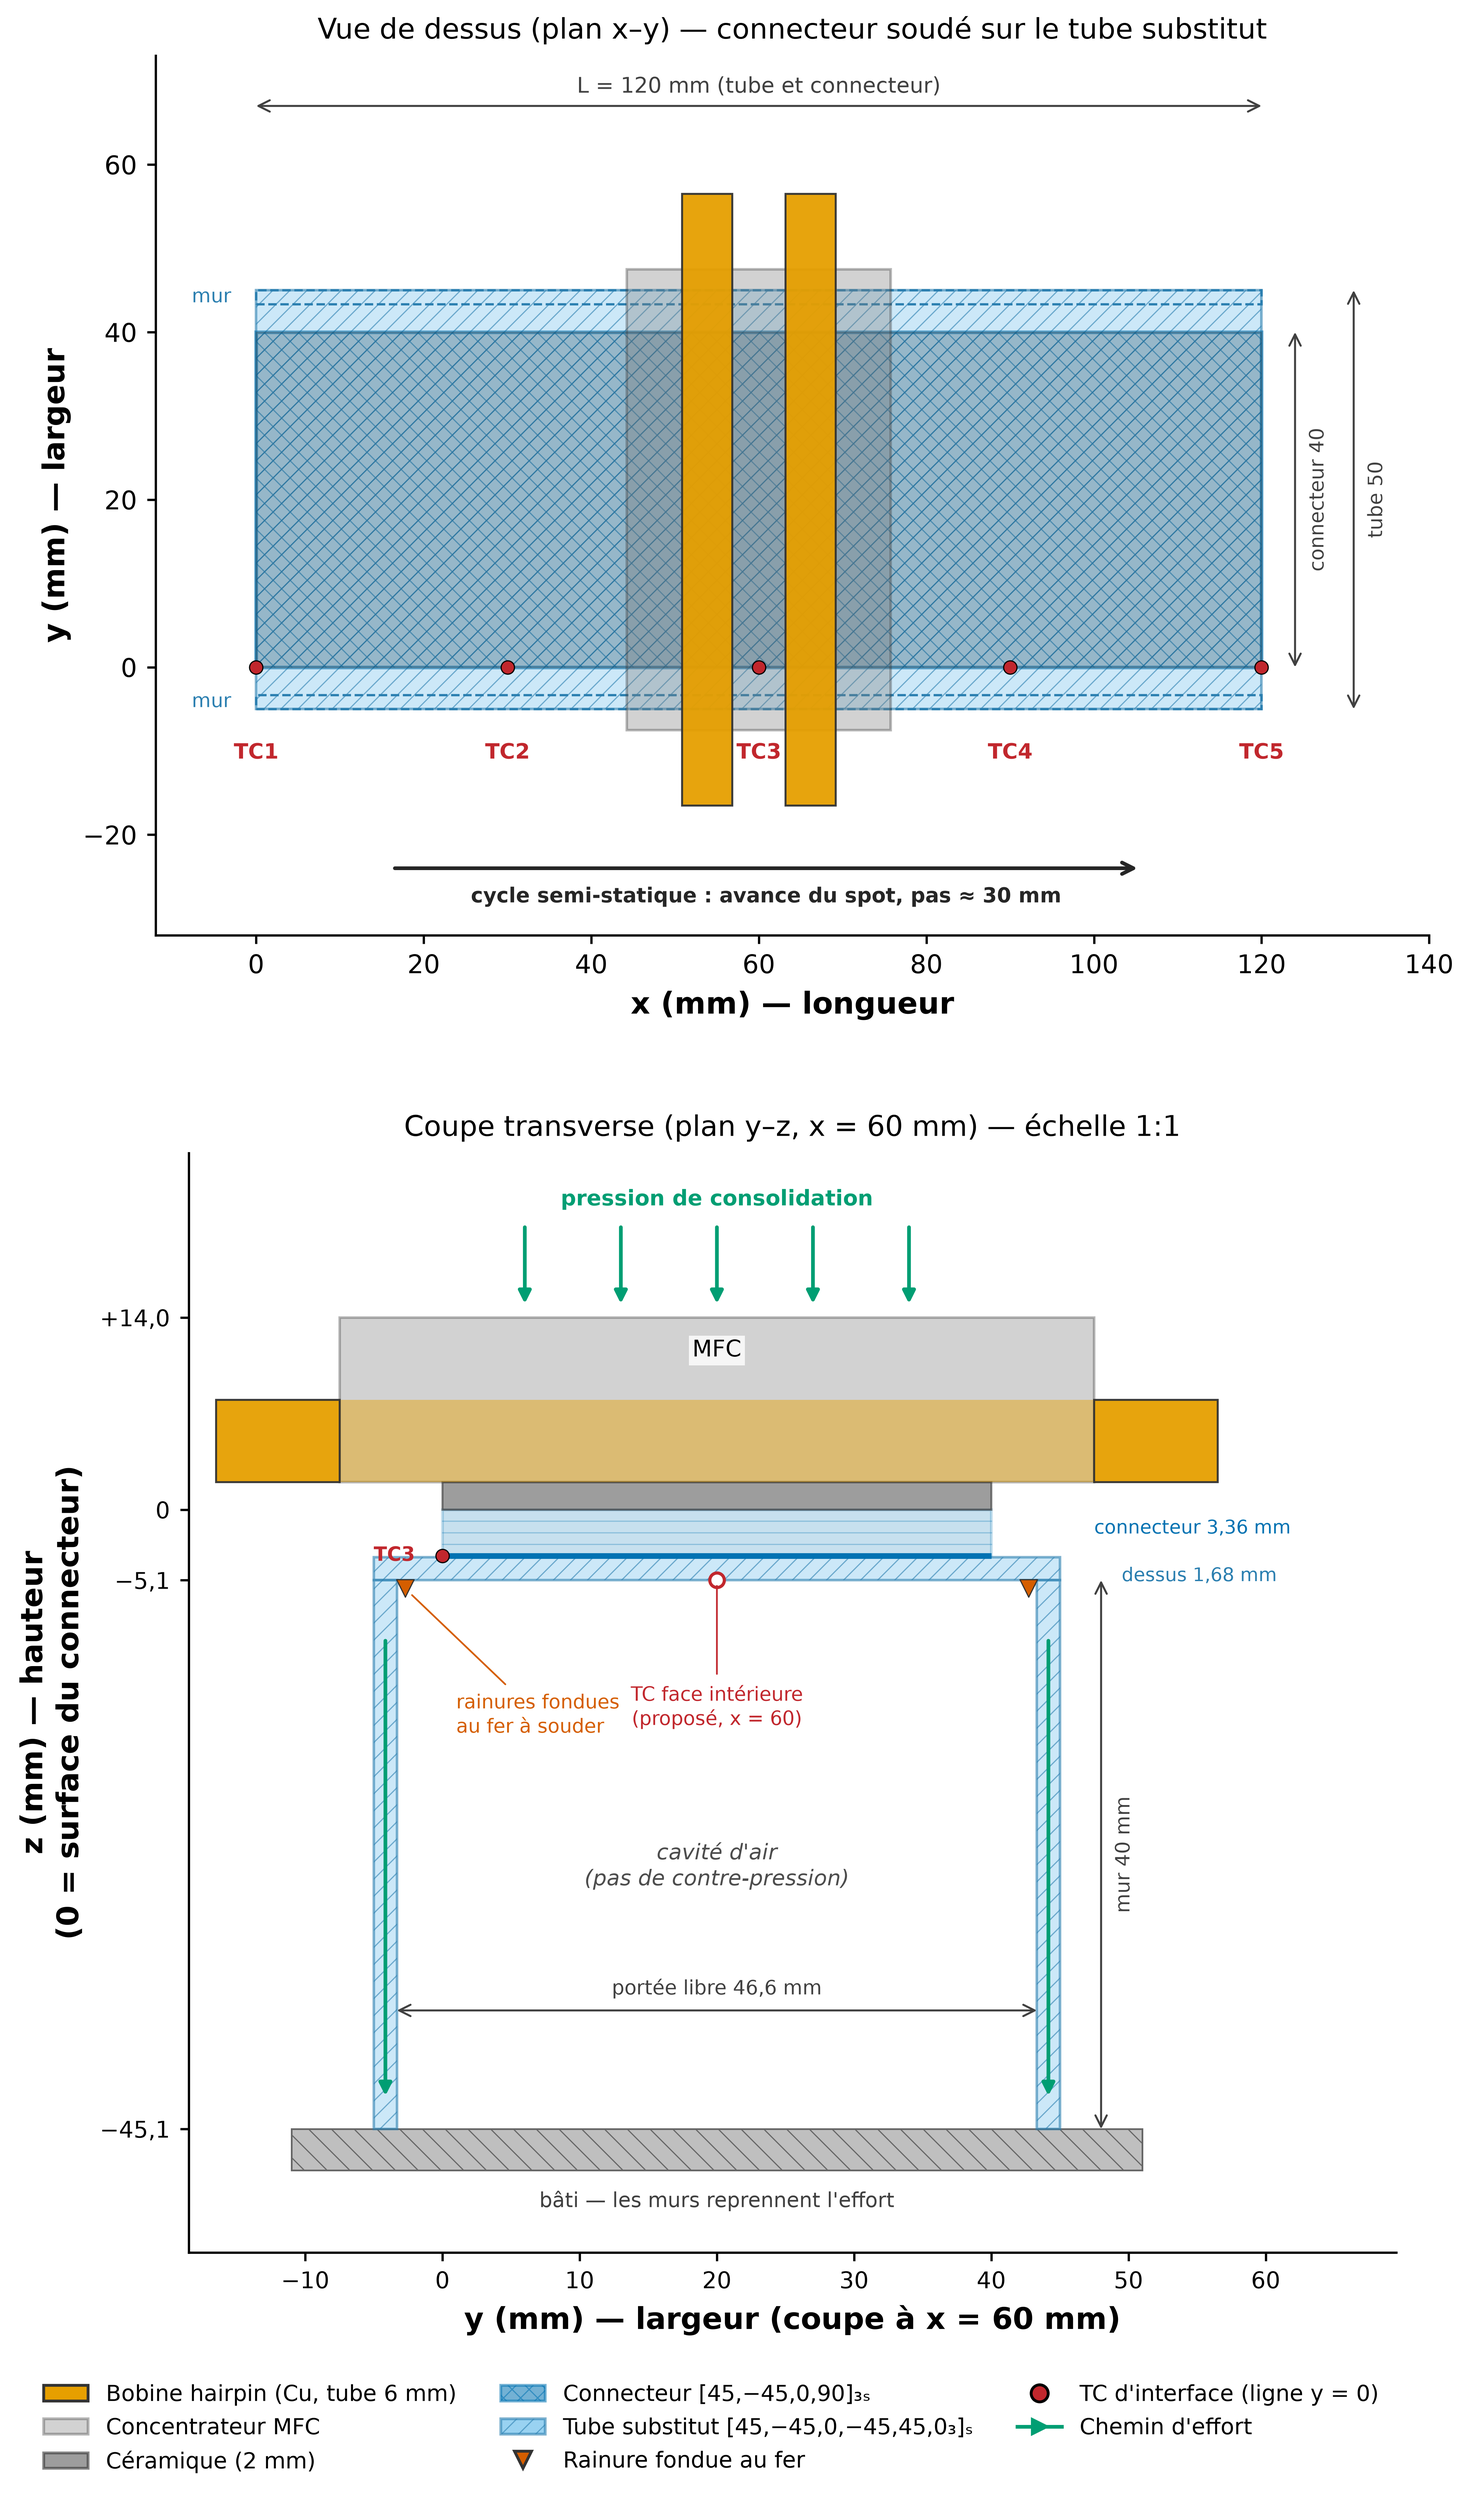
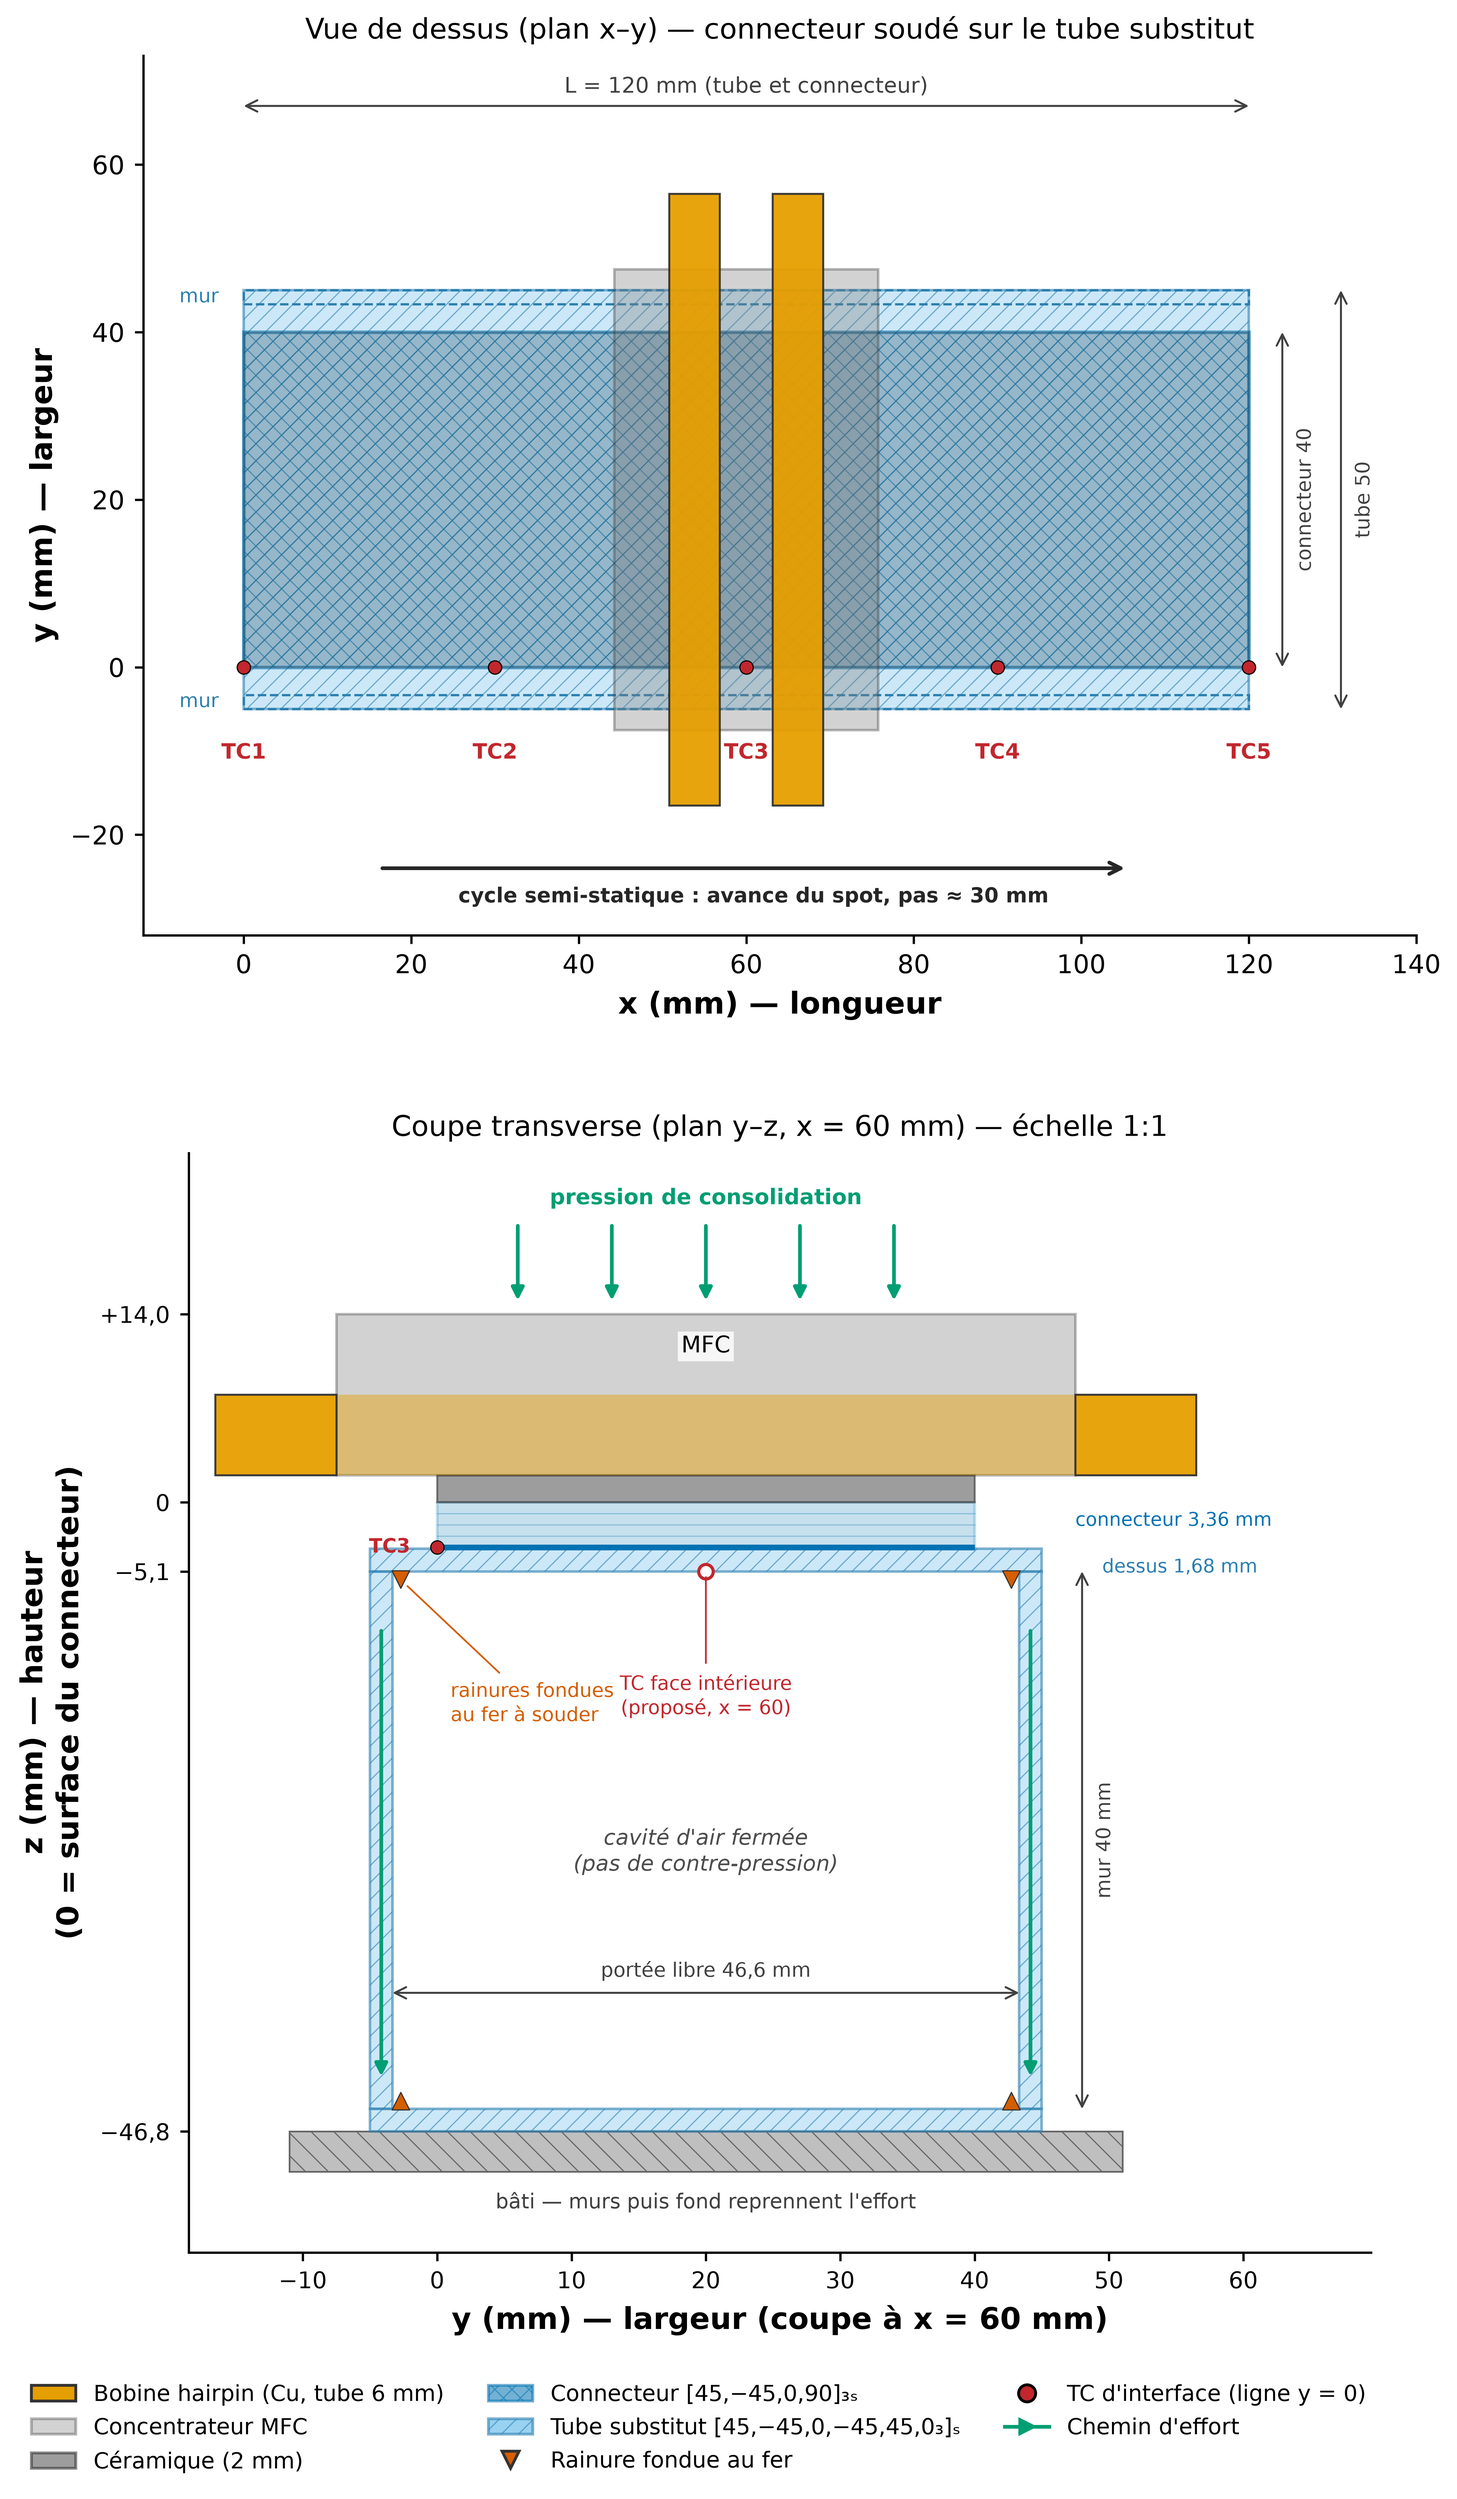
tube substitut : caisson ferme, plaque de fond soudee sous les murs

diff --git a/code/scripts/gen/gen_schema_montage_tube_substitut.py b/code/scripts/gen/gen_schema_montage_tube_substitut.py
@@ -5,13 +5,14 @@ Le tube substitut est assemblé à partir de plaques CF/PEKK consolidées à la
 presse chauffante, drapage [45,-45,0,-45,45,0_3]_S (16 plis) :
   - deux MURS de 40 mm de haut,
   - une plaque de DESSUS de 50 mm posée sur les murs,
-  - les rainures dessus/murs fondues au fer à souder (assemblage de maintien).
+  - une plaque de FOND de 50 mm sous les murs,
+  - les rainures dessus/murs et fond/murs fondues au fer à souder (maintien).
 Le « connecteur » habituel ([45,-45,0,90]_3S, 120 × 40 mm, 3,36 mm) est soudé
 sur la plaque de dessus, en cycle semi-statique.
 
 HYPOTHÈSES DE DESSIN (à confirmer terrain, reprises dans l'issue) :
   - épaisseur des parois du tube : 1,68 mm (valeur utilisateur, 2026-09-28) ;
-  - section en Π, fond OUVERT : les murs reposent directement sur le bâti ;
+  - section en caisson FERMÉ (fond soudé comme le dessus, user 2026-09-28) ;
   - faces extérieures des murs affleurant les bords de la plaque de 50 mm ;
   - tube de même longueur que le connecteur (120 mm), connecteur centré en largeur ;
   - TC : même ligne de 5 TC d'interface qu'en exp9 (bord du connecteur, y = 0).
@@ -46,7 +47,8 @@ PORTEE = W_DESSUS - 2 * E_TUBE  # portée libre entre murs, 46,64 mm
 Z_INTERF = -g.E_SUP                       # -3,36
 Z_FILM_BOT = Z_INTERF - g.E_FILM          # -3,46
 Z_DESSUS_BOT = Z_FILM_BOT - E_TUBE        # -5,14 (face intérieure, côté cavité)
-Z_MUR_BOT = Z_DESSUS_BOT - H_MUR          # -45,14 (appui sur le bâti)
+Z_MUR_BOT = Z_DESSUS_BOT - H_MUR          # -45,14 (face intérieure du fond)
+Z_FOND_BOT = Z_MUR_BOT - E_TUBE           # -46,82 (appui sur le bâti)
 
 C_TUBE = "#56B4E9"      # bleu ciel Okabe-Ito : plaques du tube (≠ connecteur)
 C_SOUDURE_FER = "#D55E00"  # vermillon : rainures fondues au fer
@@ -113,7 +115,7 @@ def make():
         ax1.spines[s].set_visible(False)
 
     # --- Panneau 2 : coupe transverse y-z à x = 60 mm, 1:1 -------------------
-    # connecteur (0 .. -3,36), film, plaque de dessus du tube, murs, bâti
+    # connecteur (0 .. -3,36), film, plaque de dessus du tube, murs, fond, bâti
     rect(ax2, 0, Z_INTERF, g.W, g.E_SUP, facecolor=g.C_COUPON, alpha=0.22,
          edgecolor=g.C_COUPON, linewidth=1.0, zorder=3)
     for k in range(1, 4):
@@ -124,12 +126,15 @@ def make():
     plaque_tube(ax2, Y0_TUBE, Z_DESSUS_BOT, W_DESSUS, E_TUBE, zorder=3)
     for yb in (Y0_TUBE, Y0_TUBE + W_DESSUS - E_TUBE):
         plaque_tube(ax2, yb, Z_MUR_BOT, E_TUBE, H_MUR, zorder=3)
-    # rainures fondues au fer (coins intérieurs dessus/mur)
+    plaque_tube(ax2, Y0_TUBE, Z_FOND_BOT, W_DESSUS, E_TUBE, zorder=3)
+    # rainures fondues au fer (4 coins intérieurs : dessus/murs et fond/murs)
     for yb, sgn in ((Y0_TUBE + E_TUBE, 1), (Y0_TUBE + W_DESSUS - E_TUBE, -1)):
         ax2.scatter([yb + sgn * 0.6], [Z_DESSUS_BOT - 0.6], s=38, marker="v",
                     color=C_SOUDURE_FER, edgecolor="0.2", linewidth=0.4, zorder=9)
+        ax2.scatter([yb + sgn * 0.6], [Z_MUR_BOT + 0.6], s=38, marker="^",
+                    color=C_SOUDURE_FER, edgecolor="0.2", linewidth=0.4, zorder=9)
     # bâti
-    rect(ax2, Y0_TUBE - 6, Z_MUR_BOT - 3.0, W_DESSUS + 12, 3.0, facecolor=C_BATI,
+    rect(ax2, Y0_TUBE - 6, Z_FOND_BOT - 3.0, W_DESSUS + 12, 3.0, facecolor=C_BATI,
          edgecolor="0.4", hatch="\\\\\\", linewidth=0.6, zorder=2)
     # céramique + MFC + tubes Cu (vus en long : ils courent selon y)
     rect(ax2, 0, 0, g.W, g.H_CERAM_TOP, facecolor=g.C_CERAM, alpha=0.55,
@@ -156,20 +161,20 @@ def make():
                  ha="center", va="top", zorder=10, bbox=g.BOXPROPS,
                  arrowprops=dict(arrowstyle="-", color=g.C_TC, lw=0.6))
 
-    # chemin d'effort : pression de consolidation -> dessus -> murs -> bâti
+    # chemin d'effort : pression de consolidation -> dessus -> murs -> fond -> bâti
     for y in (6, 13, 20, 27, 34):
         fleche(ax2, y, g.H_MFC_TOP + 7, g.H_MFC_TOP + 0.6)
     ax2.text(yc, g.H_MFC_TOP + 7.8, "pression de consolidation", ha="center",
              va="bottom", fontsize=7.6, color=C_EFFORT, fontweight="bold")
     for yb in (Y0_TUBE + E_TUBE / 2, Y0_TUBE + W_DESSUS - E_TUBE / 2):
         fleche(ax2, yb, Z_DESSUS_BOT - 4, Z_MUR_BOT + 2)
-    ax2.text(yc, -26, "cavité d'air\n(pas de contre-pression)", ha="center",
+    ax2.text(yc, -26, "cavité d'air fermée\n(pas de contre-pression)", ha="center",
              va="center", fontsize=7.6, color="0.3", style="italic")
     ax2.annotate("rainures fondues\nau fer à souder", xy=(Y0_TUBE + E_TUBE + 0.8, Z_DESSUS_BOT - 0.8),
                  xytext=(Y0_TUBE + 6, -15), fontsize=6.8, color=C_SOUDURE_FER, ha="left",
                  va="center", zorder=10, bbox=g.BOXPROPS,
                  arrowprops=dict(arrowstyle="-", color=C_SOUDURE_FER, lw=0.6))
-    ax2.text(yc, Z_MUR_BOT - 4.5, "bâti — les murs reprennent l'effort", ha="center",
+    ax2.text(yc, Z_FOND_BOT - 4.5, "bâti — murs puis fond reprennent l'effort", ha="center",
              va="top", fontsize=7.2, color="0.25")
 
     # cotes
@@ -183,14 +188,14 @@ def make():
              fontsize=6.6, color=g.C_COUPON, ha="left", va="center")
 
     ax2.set_xlim(y_lo - 11, y_lo + g.MFC_Y + 22)
-    ax2.set_ylim(Z_MUR_BOT - 9, g.H_MFC_TOP + 12)
+    ax2.set_ylim(Z_FOND_BOT - 9, g.H_MFC_TOP + 12)
     ax2.set_aspect("equal")
     ax2.set_xlabel("y (mm) — largeur (coupe à x = 60 mm)")
     ax2.set_ylabel("z (mm) — hauteur\n(0 = surface du connecteur)")
     ax2.set_title("Coupe transverse (plan y–z, x = 60 mm) — échelle 1:1", fontsize=10)
-    ax2.set_yticks([Z_MUR_BOT, Z_DESSUS_BOT, 0, g.H_MFC_TOP])
+    ax2.set_yticks([Z_FOND_BOT, Z_DESSUS_BOT, 0, g.H_MFC_TOP])
     ax2.set_yticklabels([f"{z:+.1f}".replace("-", "−").replace(".", ",").replace("+0,0", "0")
-                         for z in (Z_MUR_BOT, Z_DESSUS_BOT, 0, g.H_MFC_TOP)])
+                         for z in (Z_FOND_BOT, Z_DESSUS_BOT, 0, g.H_MFC_TOP)])
     ax2.tick_params(length=3, labelsize=8)
     for s in ("top", "right"):
         ax2.spines[s].set_visible(False)
